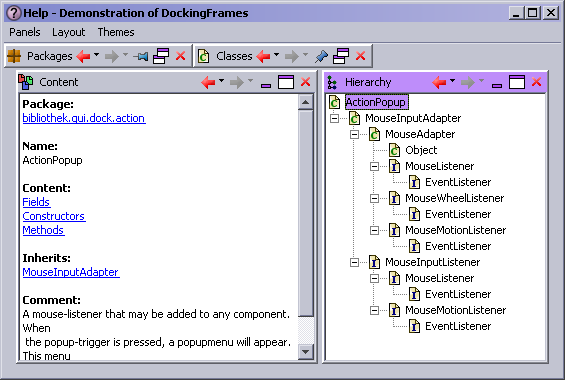
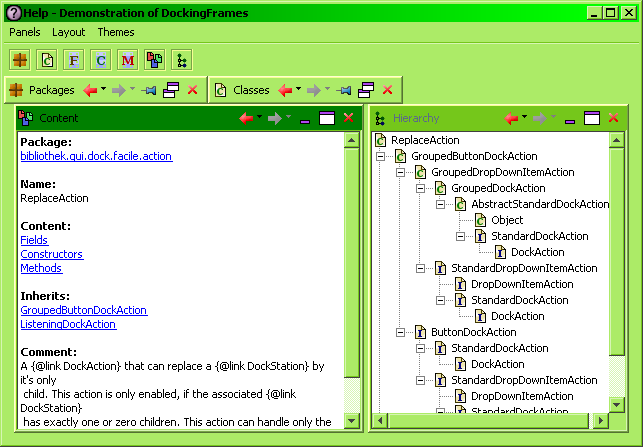
Modifed the help-demonstration to show the new DockElementRepresentative
git-svn-id: http://svn.javaforge.com/svn/DockingFrames/trunk@328 3428d308-0d2e-0410-b3d4-94d0fefcacdf

diff --git a/help/src/bibliothek/help/Core.java b/help/src/bibliothek/help/Core.java
@@ -3,6 +3,7 @@ package bibliothek.help;
 import java.awt.BorderLayout;
 import java.awt.Component;
 import java.awt.Container;
+import java.awt.FlowLayout;
 import java.awt.event.ActionEvent;
 import java.awt.event.ActionListener;
 import java.awt.event.WindowAdapter;
@@ -12,12 +13,7 @@ import java.util.ArrayList;
 import java.util.Collection;
 import java.util.List;
 
-import javax.swing.ButtonGroup;
-import javax.swing.JFrame;
-import javax.swing.JMenu;
-import javax.swing.JMenuBar;
-import javax.swing.JRadioButtonMenuItem;
-import javax.swing.WindowConstants;
+import javax.swing.*;
 
 import bibliothek.demonstration.Monitor;
 import bibliothek.demonstration.util.LookAndFeelMenu;
@@ -54,6 +50,7 @@ import bibliothek.help.view.LayoutMenu;
 import bibliothek.help.view.PanelMenu;
 import bibliothek.help.view.SelectingView;
 import bibliothek.help.view.TypeHierarchyView;
+import bibliothek.help.view.dock.DockableButton;
 import bibliothek.help.view.dock.Minimizer;
 
 /**
@@ -99,7 +96,8 @@ public class Core implements ComponentCollector{
 	 */
 	public void startup(){
 		try{
-	        buildContent();
+		    JPanel dockbar = new JPanel( new FlowLayout( FlowLayout.LEADING ));
+	        buildContent( dockbar );
 	        
 	        HelpModel model = new HelpModel( "/data/bibliothek/help/help.data" );
 	        LinkManager links = new LinkManager();
@@ -134,6 +132,14 @@ public class Core implements ComponentCollector{
 	        TypeHierarchyView viewHierarchy = new TypeHierarchyView( links );
 	        
 	        links.select( "package-list:root" );
+	        
+	        buttonize( dockbar, viewPackage );
+	        buttonize( dockbar, viewClasses );
+	        buttonize( dockbar, viewFields );
+	        buttonize( dockbar, viewConstructors );
+	        buttonize( dockbar, viewMethods );
+	        buttonize( dockbar, viewContent );
+	        buttonize( dockbar, viewHierarchy );
 	        
 	        frontend.add( viewPackage, "packages" );
 	        frontend.add( viewClasses, "classes" );
@@ -194,7 +200,7 @@ public class Core implements ComponentCollector{
 	/**
 	 * Creates the main frame and all {@link DockStation}s.
 	 */
-	private void buildContent(){
+	private void buildContent( Container dockbar ){
 		FlapDockStation north, south, east, west;
         frame = new JFrame();
         frame.setTitle( "Help - Demonstration of DockingFrames" );
@@ -233,11 +239,15 @@ public class Core implements ComponentCollector{
         
         Container content = frame.getContentPane();
         content.setLayout( new BorderLayout() );
-        content.add( station, BorderLayout.CENTER );
-        content.add( south.getComponent(), BorderLayout.SOUTH );
-        content.add( north.getComponent(), BorderLayout.NORTH );
-        content.add( east.getComponent(), BorderLayout.EAST );
-        content.add( west.getComponent(), BorderLayout.WEST );
+        content.add( dockbar, BorderLayout.NORTH );
+        Container center = new Container();
+        content.add( center, BorderLayout.CENTER );
+        center.setLayout( new BorderLayout() );
+        center.add( station, BorderLayout.CENTER );
+        center.add( south.getComponent(), BorderLayout.SOUTH );
+        center.add( north.getComponent(), BorderLayout.NORTH );
+        center.add( east.getComponent(), BorderLayout.EAST );
+        center.add( west.getComponent(), BorderLayout.WEST );
         
         minimizer.addAreaMinimized( north, SplitDockProperty.NORTH );
         minimizer.addAreaMinimized( south, SplitDockProperty.SOUTH );
@@ -260,6 +270,18 @@ public class Core implements ComponentCollector{
         frontend.addRoot( west, "west" );
         frontend.addRoot( station, "root" );
         frontend.addRoot( screen, "screen" );
+	}
+	
+	/**
+	 * Creates a button in <code>dockbar</code> and connects the button with
+	 * <code>dockable</code> and {@link #frontend}.
+	 * @param dockbar the parent of the new button
+	 * @param dockable the element for which to create the button
+	 */
+	private void buttonize( Container dockbar, Dockable dockable ){
+	    DockableButton button = new DockableButton( frontend, dockable );
+	    dockbar.add( button );
+	    frontend.addRepresentative( button );
 	}
 	
 	/**

diff --git a/help/src/bibliothek/help/view/dock/DockableButton.java b/help/src/bibliothek/help/view/dock/DockableButton.java
@@ -1,0 +1,96 @@
+package bibliothek.help.view.dock;
+
+import java.awt.*;
+import java.awt.event.MouseAdapter;
+import java.awt.event.MouseEvent;
+
+import javax.swing.BorderFactory;
+import javax.swing.Icon;
+import javax.swing.JComponent;
+import javax.swing.event.MouseInputListener;
+
+import bibliothek.gui.DockFrontend;
+import bibliothek.gui.Dockable;
+import bibliothek.gui.dock.DockElement;
+import bibliothek.gui.dock.DockElementRepresentative;
+
+/**
+ * A button that represents a {@link Dockable}. This button only paints
+ * the icon of the {@link Dockable}.
+ * @author Benjamin Sigg
+ */
+public class DockableButton extends JComponent implements DockElementRepresentative{
+    private DockFrontend frontend;
+    private Dockable dockable;
+    
+    public DockableButton( DockFrontend frontend, Dockable dockable ){
+        this.frontend = frontend;
+        this.dockable = dockable;
+        setBorder( BorderFactory.createEtchedBorder() );
+        setToolTipText( dockable.getTitleText() );
+        
+        addMouseListener( new MouseAdapter(){
+            @Override
+            public void mouseClicked( MouseEvent e ) {
+                if( !e.isPopupTrigger() ){
+                    if( !e.isConsumed() ){
+                        e.consume();
+                        DockableButton.this.frontend.show( DockableButton.this.dockable );
+                    }
+                }
+            }
+        });
+    }
+    
+    @Override
+    public Dimension getPreferredSize() {
+        Insets insets = getInsets();
+        Icon icon = dockable.getTitleIcon();
+        
+        int width = insets.left + insets.right;
+        int height = insets.top + insets.bottom;
+        
+        if( icon != null ){
+            width += icon.getIconWidth() + 2;
+            height += icon.getIconHeight() + 2;
+        }
+        
+        return new Dimension( width, height ); 
+    }
+    
+    @Override
+    protected void paintComponent( Graphics g ) {
+        super.paintComponent( g );
+        Icon icon = dockable.getTitleIcon();
+        if( icon != null ){
+            icon.paintIcon( this, g, 
+                    (getWidth()-icon.getIconWidth())/2, 
+                    (getHeight()-icon.getIconHeight())/2 );
+        }
+    }
+    
+    public void addMouseInputListener( MouseInputListener listener ) {
+        addMouseListener( listener );
+        addMouseMotionListener( listener );
+    }
+
+    public void removeMouseInputListener( MouseInputListener listener ) {
+        removeMouseListener( listener );
+        removeMouseMotionListener( listener );
+    }
+    
+    public Component getComponent() {
+        return this;
+    }
+
+    public DockElement getElement() {
+        return dockable;
+    }
+
+    public Point getPopupLocation( Point click, boolean popupTrigger ) {
+        if( popupTrigger )
+            return click;
+        
+        return null;
+    }
+}

diff --git a/dockingFrames/src/bibliothek/gui/DockFrontend.java b/dockingFrames/src/bibliothek/gui/DockFrontend.java
@@ -39,6 +39,7 @@ import javax.swing.KeyStroke;
 
 import bibliothek.extension.gui.dock.theme.eclipse.EclipseTabDockAction;
 import bibliothek.gui.dock.DockElement;
+import bibliothek.gui.dock.DockElementRepresentative;
 import bibliothek.gui.dock.DockFactory;
 import bibliothek.gui.dock.ScreenDockStation;
 import bibliothek.gui.dock.action.ActionGuard;
@@ -485,6 +486,27 @@ public class DockFrontend {
             stations[i++] = info.station;
         }
         return stations;
+    }
+    
+    /**
+     * Adds a representative for some {@link DockElement}. Note that no two
+     * representatives can have the same
+     * {@link DockElementRepresentative#getComponent() component}. If two have
+     * the same, then the second one overrides the first one.
+     * @param representative the new representative
+     * @see DockController#addRepresentative(DockElementRepresentative)
+     */
+    public void addRepresentative( DockElementRepresentative representative ){
+        controller.addRepresentative( representative );
+    }
+    
+    /**
+     * Removes <code>representative</code> from this frontend.
+     * @param representative the element to remove
+     * @see DockController#removeRepresentative(DockElementRepresentative)
+     */
+    public void removeRepresentative( DockElementRepresentative representative ){
+        controller.removeRepresentative( representative );
     }
     
     /**

diff --git a/dockingFrames/src/bibliothek/gui/dock/action/ActionPopup.java b/dockingFrames/src/bibliothek/gui/dock/action/ActionPopup.java
@@ -179,12 +179,12 @@ public abstract class ActionPopup extends MouseInputAdapter{
         
         menu.addPopupMenuListener( new PopupMenuListener(){
             public void popupMenuWillBecomeInvisible( PopupMenuEvent e ) {
-            	// do nothing
-            }
-            public void popupMenuCanceled( PopupMenuEvent e ) {
-                handler.unbind();
+            	handler.unbind();
                 if( methodMenu == menu )
                     menu = null;
+            }
+            public void popupMenuCanceled( PopupMenuEvent e ) {
+                // do nothing
             }
             public void popupMenuWillBecomeVisible( PopupMenuEvent e ) {
             	// do nothing

diff --git a/dockingFrames/src/bibliothek/gui/dock/DockElement.java b/dockingFrames/src/bibliothek/gui/dock/DockElement.java
@@ -26,6 +26,7 @@
 
 package bibliothek.gui.dock;
 
+import bibliothek.gui.DockController;
 import bibliothek.gui.DockStation;
 import bibliothek.gui.Dockable;
 
@@ -48,6 +49,12 @@ public interface DockElement {
      * @return <code>this</code> or <code>null</code>
      */
     public DockStation asDockStation();
+    
+    /**
+     * Gets the controller that currently is associated with this {@link DockElement}.
+     * @return the controller or <code>null</code>
+     */
+    public DockController getController();
     
     /**
      * Gets the unique name of the {@link DockFactory} which can read

diff --git a/dockingFrames/src/bibliothek/gui/DockController.java b/dockingFrames/src/bibliothek/gui/DockController.java
@@ -570,8 +570,10 @@ public class DockController {
     public DockElementRepresentative searchElement( Component representative ){
     	while( representative != null ){
     	    DockElementRepresentative element = componentToDockElements.get( representative );
-    		if( element != null )
-    			return element;
+    		if( element != null ){
+    		    if( element.getElement().getController() == this )
+    		        return element;
+    		}
     		
     		representative = representative.getParent();
     	}

diff --git a/help/src/bibliothek/help/control/actions/RedoDockAction.java b/help/src/bibliothek/help/control/actions/RedoDockAction.java
@@ -7,6 +7,7 @@ import java.awt.event.KeyEvent;
 
 import javax.swing.KeyStroke;
 
+import bibliothek.gui.dock.action.DockAction;
 import bibliothek.gui.dock.action.actions.SeparatorAction;
 import bibliothek.gui.dock.action.actions.SimpleButtonAction;
 import bibliothek.gui.dock.action.actions.SimpleDropDownAction;
